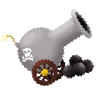
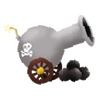
Rotation balle ok
Plus qu'à tirer

Changed region(s): [[0.0, 0.09, 0.96, 0.87]]

diff --git a/Projet.py b/Projet.py
@@ -5,8 +5,9 @@ import gtk
 from PIL import Image
 import numpy
 from random import randrange
+from math import sin, cos, pi
 
-class HelloWorld:
+class Main:
 	def __init__(self):
 		interface = gtk.Builder()
 		interface.add_from_file('Projet.glade')
@@ -29,6 +30,9 @@ class HelloWorld:
 		self.gtk_image1=interface.get_object("image1")
 		self.gtk_image2=interface.get_object("image2")
 		
+		self.balle1=interface.get_object("balle1")
+		self.balle2=interface.get_object("balle2")
+		
 		self.image1 = Image.open("canon1.png")
 		self.image2 = Image.open("canon2.png")
 		
@@ -40,10 +44,27 @@ class HelloWorld:
 		self.image2.rotate(self.cursor2.get_value()).save("canon2_rot.png")
 		self.gtk_image2.set_from_file("canon2_rot.png")
 		
+		self.posY1 =randrange(0 ,self.pane.get_allocation().height-self.gtk_image1.get_allocation().height)
+		self.posY2=randrange(0 ,self.pane.get_allocation().height-self.gtk_image2.get_allocation().height)
+		
+		self.posX1 = 10
+		self.posX2=self.pane.get_allocation().width-10-self.gtk_image2.get_allocation().width
+		
+		self.pane.move(self.gtk_image1,self.posX1,self.posY1)
+		self.pane.move(self.gtk_image2,self.posX2,self.posY2)
+		
+		self.xb1=self.gtk_image1.get_allocation().width-35
+		self.yb1=self.posY1+35
+		
+		self.xb2=self.pane.get_allocation().width-self.gtk_image2.get_allocation().width-10
+		self.yb2=self.posY2+30
+		
+		self.pane.move(self.balle1, self.xb1, self.yb1)
+		self.pane.move(self.balle2,self.xb2,self.yb2)
+		
+		
 		#self.image2 = Image.open("canon1.png")
 		#self.image2.rotate(45)
-		
-		
 		
 		interface.connect_signals(self)
 
@@ -51,21 +72,57 @@ class HelloWorld:
 		gtk.main_quit()
 		
 	def on_button1_clicked(self,widget):
-		self.pane.move(self.gtk_image1,10,randrange(0 ,self.pane.get_allocation().height-self.gtk_image1.get_allocation().height))
+		nb=randrange(0 ,self.pane.get_allocation().height-self.gtk_image1.get_allocation().height)
+		diff=nb-self.posY1;
+		self.posY1=nb
+		self.pane.move(self.gtk_image1,self.posX1,self.posY1)
+		self.yb1=self.yb1+diff
+		self.pane.move(self.balle1,self.xb1,self.yb1)
+		self.rotateBalle1(-self.cursor1.get_value())
 
 	def on_button2_clicked(self,widget):
-		self.pane.move(self.gtk_image2,self.pane.get_allocation().width-10-self.gtk_image2.get_allocation().width,randrange(0 ,self.pane.get_allocation().height-self.gtk_image2.get_allocation().height))
+		nb=randrange(0 ,self.pane.get_allocation().height-self.gtk_image2.get_allocation().height)
+		diff=nb-self.posY2;
+		self.posY2=nb
+		self.posX2=self.pane.get_allocation().width-10-self.gtk_image2.get_allocation().width
+		self.pane.move(self.gtk_image2,self.posX2,self.posY2)
+		self.yb2=self.yb2+diff
+		self.pane.move(self.balle2,self.xb2,self.yb2)
+		self.rotateBalle2(self.cursor2.get_value())
+		
+	def rotateBalle1(self,angle):
+		cosAngle = cos(self.degToRad(angle))
+		sinAngle= sin(self.degToRad(angle))
+		centerX=self.posX1+55
+		centerY=self.posY1+55
+		newX = (self.xb1-centerX)*cosAngle-(self.yb1-centerY)*sinAngle
+		newY= (self.yb1-centerY)*cosAngle+(self.xb1-centerX)*sinAngle
+		self.pane.move(self.balle1,centerX+newX,centerY+newY)
+		
+	def rotateBalle2(self,angle):
+		cosAngle = cos(self.degToRad(angle))
+		sinAngle= sin(self.degToRad(angle))
+		centerX=self.posX2+55
+		centerY=self.posY2+55
+		newX = (self.xb2-centerX)*cosAngle-(self.yb2-centerY)*sinAngle
+		newY= (self.yb2-centerY)*cosAngle+(self.xb2-centerX)*sinAngle
+		self.pane.move(self.balle2,centerX+newX,centerY+newY)	
 	
 	def on_cursor1_change_value(self,widget,v1,v2):
 		self.image1.rotate(self.cursor1.get_value()).save("canon1_rot.png")
 		self.gtk_image1.set_from_file("canon1_rot.png")
+		self.rotateBalle1(-self.cursor1.get_value())
 		
 	
 	def on_cursor2_change_value(self,widget,v1,v2):
 		self.image2.rotate(-self.cursor2.get_value()).save("canon2_rot.png")
 		self.gtk_image2.set_from_file("canon2_rot.png")
+		self.rotateBalle2(self.cursor2.get_value())
+		
+	def degToRad(self,deg):
+		return float(deg)*pi/180
 
 	
 if __name__ == "__main__":
-	HelloWorld()
+	Main()
 	gtk.main()
